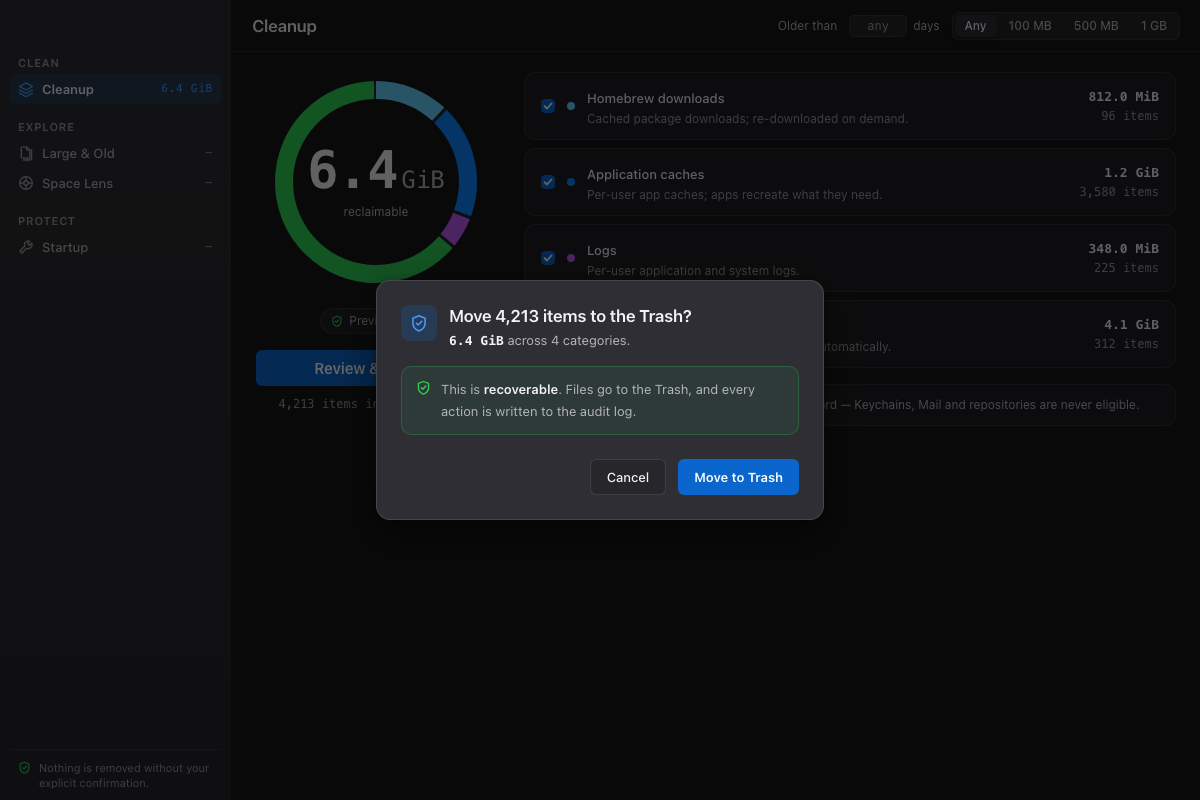
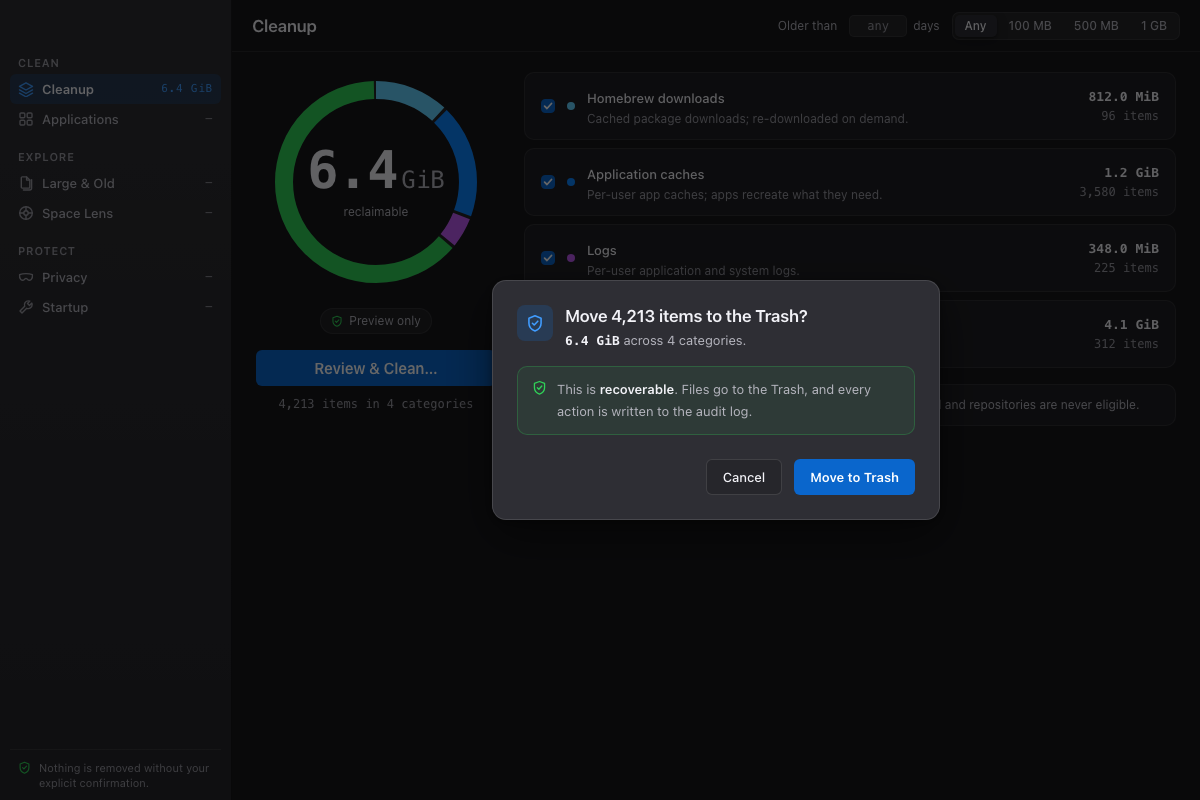
docs: the screenshots still said mac-cleaner (#61)
The README's images were the last place the old name survived. The
rename substituted text across 68 files and skipped PNGs, which was
correct — you cannot sed a picture — but nobody went back for them, and
they have been on a public repository since the flip.

`docs/screenshot-large-old.png` read **"mac-cleaner never picks these
for you."** in the action bar. Worse than the name: every shot showed a
four-module sidebar — Cleanup, Large & Old, Space Lens, Startup — when
the app has shipped six since Applications and Privacy landed. The
feature table was corrected in prose before going public; the pictures
beside it were still describing an older app.

Refreshed from the current harness renders, which are regenerated on
every `npm run ux` and were already correct. That fixes both problems at
once: the name, and the sidebar, which now shows all six.

Applications and Privacy get shots of their own, since the table names
them and the gallery did not.

diff --git a/README.md b/README.md
@@ -53,6 +53,15 @@ when the walk could not see everything:
 
 ![Confirmation](docs/screenshot-confirm.png)
 
+**Applications** — what an app left behind after you removed it, matched on the
+exact bundle id:
+
+![Applications](docs/screenshot-applications.png)
+
+**Privacy** — organised by what it costs you, not by size:
+
+![Privacy](docs/screenshot-privacy.png)
+
 **Startup** — what runs at login, and what this app can and cannot change:
 
 ![Startup](docs/screenshot-startup.png)
